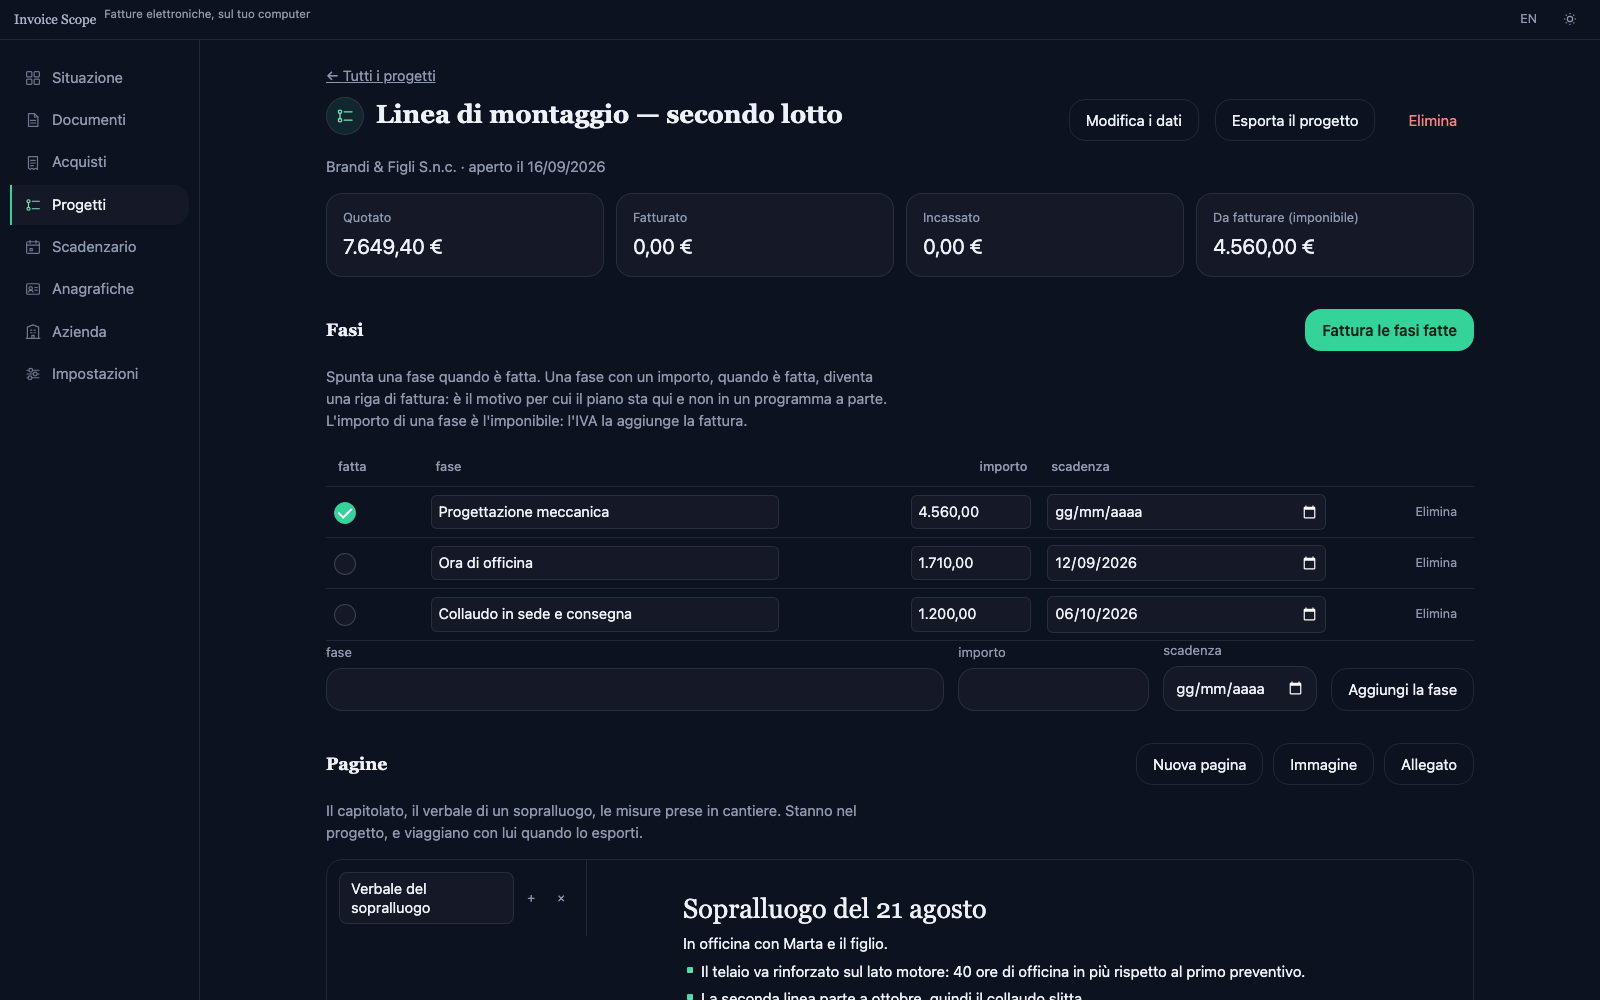
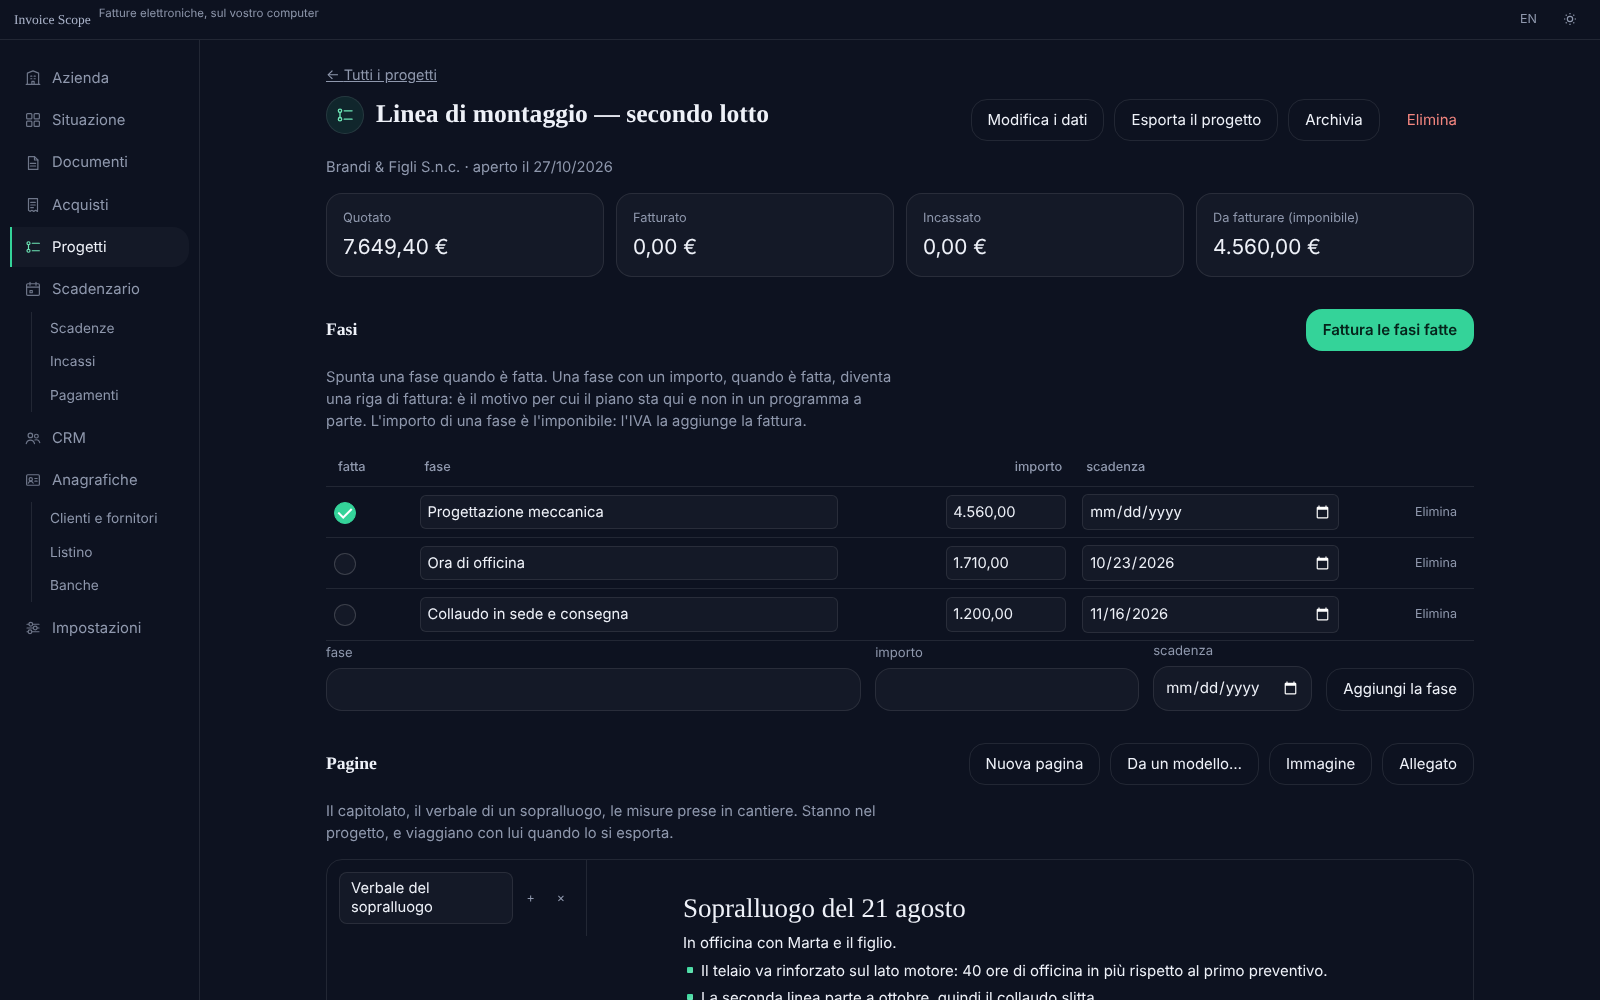
no message

diff --git a/app/invoice-scope/index.html b/app/invoice-scope/index.html
@@ -80,7 +80,7 @@
     "image": "https://ggtechnologies.sm/assets/og-app-invoice-scope-it.jpg",
     "applicationCategory": "BusinessApplication",
     "operatingSystem": "Any (web browser)",
-    "softwareVersion": "0.76.1",
+    "softwareVersion": "0.76.2",
     "datePublished": "2026-09-03",
     "dateModified": "2026-10-26",
     "license": "https://polyformproject.org/licenses/shield/1.0.0/",
@@ -201,13 +201,18 @@
           </a>
           <a class="app-gallery-item" href="/assets/shot-invoice-scope-cliente-it.png" target="_blank" rel="noopener">
             <img src="/assets/shot-invoice-scope-cliente-it.png" width="1600" height="1000" loading="lazy" decoding="async"
-                 alt="La scheda di un cliente: le persone, il diario delle telefonate, i suoi documenti.">
-            <span>La scheda di un cliente: le persone, il diario delle telefonate, i suoi documenti.</span>
+                 alt="La scheda di un cliente: le persone di riferimento, gli incontri in programma, il diario e i suoi documenti.">
+            <span>La scheda di un cliente: le persone di riferimento, gli incontri in programma, il diario e i suoi documenti.</span>
           </a>
           <a class="app-gallery-item" href="/assets/shot-invoice-scope-scadenzario-it.png" target="_blank" rel="noopener">
             <img src="/assets/shot-invoice-scope-scadenzario-it.png" width="1600" height="1000" loading="lazy" decoding="async"
                  alt="Lo scadenzario: le rate, quelle scadute, e l'incasso da registrare.">
             <span>Lo scadenzario: le rate, quelle scadute, e l'incasso da registrare.</span>
+          </a>
+          <a class="app-gallery-item" href="/assets/shot-invoice-scope-incassi-it.png" target="_blank" rel="noopener">
+            <img src="/assets/shot-invoice-scope-incassi-it.png" width="1600" height="1000" loading="lazy" decoding="async"
+                 alt="Gli incassi registrati: filtri per anno, cliente e ricevuta, e ogni incasso si corregge o riceve la sua ricevuta anche dopo.">
+            <span>Gli incassi registrati: filtri per anno, cliente e ricevuta, e ogni incasso si corregge o riceve la sua ricevuta anche dopo.</span>
           </a>
           <a class="app-gallery-item" href="/assets/shot-invoice-scope-acquisti-it.png" target="_blank" rel="noopener">
             <img src="/assets/shot-invoice-scope-acquisti-it.png" width="1600" height="1000" loading="lazy" decoding="async"
@@ -343,7 +348,7 @@
             </div>
           </div>
         </div>
-        <p class="app-meta"><span><b>Versione</b> 0.76.1</span><span><b>Aggiornata il</b> 26 ottobre 2026</span><span><b>Licenza</b> PolyForm-Shield-1.0.0</span><a href="https://github.com/G-G-Technologies-Srl/g-g-technologies-srl.github.io/tree/main/app/invoice-scope" rel="noopener">Codice sorgente</a></p>
+        <p class="app-meta"><span><b>Versione</b> 0.76.2</span><span><b>Aggiornata il</b> 26 ottobre 2026</span><span><b>Licenza</b> PolyForm-Shield-1.0.0</span><a href="https://github.com/G-G-Technologies-Srl/g-g-technologies-srl.github.io/tree/main/app/invoice-scope" rel="noopener">Codice sorgente</a></p>
       </div>
     </section>
 

diff --git a/en/app/invoice-scope/index.html b/en/app/invoice-scope/index.html
@@ -80,7 +80,7 @@
     "image": "https://ggtechnologies.sm/assets/og-app-invoice-scope-en.jpg",
     "applicationCategory": "BusinessApplication",
     "operatingSystem": "Any (web browser)",
-    "softwareVersion": "0.76.1",
+    "softwareVersion": "0.76.2",
     "datePublished": "2026-09-03",
     "dateModified": "2026-10-26",
     "license": "https://polyformproject.org/licenses/shield/1.0.0/",
@@ -201,13 +201,18 @@
           </a>
           <a class="app-gallery-item" href="/assets/shot-invoice-scope-cliente-en.png" target="_blank" rel="noopener">
             <img src="/assets/shot-invoice-scope-cliente-en.png" width="1600" height="1000" loading="lazy" decoding="async"
-                 alt="A customer record: the people, the diary of calls, their documents.">
-            <span>A customer record: the people, the diary of calls, their documents.</span>
+                 alt="A customer record: the people to talk to, the meetings coming up, the diary and their documents.">
+            <span>A customer record: the people to talk to, the meetings coming up, the diary and their documents.</span>
           </a>
           <a class="app-gallery-item" href="/assets/shot-invoice-scope-scadenzario-en.png" target="_blank" rel="noopener">
             <img src="/assets/shot-invoice-scope-scadenzario-en.png" width="1600" height="1000" loading="lazy" decoding="async"
                  alt="The payment schedule: instalments, the overdue ones, and the payment to record.">
             <span>The payment schedule: instalments, the overdue ones, and the payment to record.</span>
+          </a>
+          <a class="app-gallery-item" href="/assets/shot-invoice-scope-incassi-en.png" target="_blank" rel="noopener">
+            <img src="/assets/shot-invoice-scope-incassi-en.png" width="1600" height="1000" loading="lazy" decoding="async"
+                 alt="Payments received: filters by year, customer and receipt, and each payment can be corrected or given its receipt later.">
+            <span>Payments received: filters by year, customer and receipt, and each payment can be corrected or given its receipt later.</span>
           </a>
           <a class="app-gallery-item" href="/assets/shot-invoice-scope-acquisti-en.png" target="_blank" rel="noopener">
             <img src="/assets/shot-invoice-scope-acquisti-en.png" width="1600" height="1000" loading="lazy" decoding="async"
@@ -343,7 +348,7 @@
             </div>
           </div>
         </div>
-        <p class="app-meta"><span><b>Version</b> 0.76.1</span><span><b>Updated</b> 26 October 2026</span><span><b>Licence</b> PolyForm-Shield-1.0.0</span><a href="https://github.com/G-G-Technologies-Srl/g-g-technologies-srl.github.io/tree/main/app/invoice-scope" rel="noopener">Source code</a></p>
+        <p class="app-meta"><span><b>Version</b> 0.76.2</span><span><b>Updated</b> 26 October 2026</span><span><b>Licence</b> PolyForm-Shield-1.0.0</span><a href="https://github.com/G-G-Technologies-Srl/g-g-technologies-srl.github.io/tree/main/app/invoice-scope" rel="noopener">Source code</a></p>
       </div>
     </section>
 

diff --git a/app/invoice-scope/run/index.html b/app/invoice-scope/run/index.html
@@ -92,6 +92,9 @@
   <!-- Il testo di ogni voce sta in uno `<span>` perché `data-t` riscrive il contenuto del nodo, e
        riscriverebbe via l'icona. -->
   <nav class="navbar" id="navbar" aria-label="Invoice Scope">
+    <!-- Azienda first: it is the first thing filled in, and the one the person comes back to when a
+         detail of the company changes (requested on 27 October 2026). -->
+    <a href="#/azienda" id="navCompany"><svg aria-hidden="true"><use href="#ico-company"/></svg><span data-t="navCompany"></span></a>
     <a href="#/" id="navHome"><svg aria-hidden="true"><use href="#ico-home"/></svg><span data-t="navHome"></span></a>
     <a href="#/documenti" id="navDocs"><svg aria-hidden="true"><use href="#ico-docs"/></svg><span data-t="navDocs"></span></a>
     <a href="#/acquisti" id="navPurchases"><svg aria-hidden="true"><use href="#ico-purchases"/></svg><span data-t="navPurchases"></span></a>
@@ -114,7 +117,6 @@
       <a href="#/anagrafiche/listino" id="navPartiesItems" data-sub="1"><span data-t="navPartiesItems"></span></a>
       <a href="#/anagrafiche/banche" id="navPartiesBanks" data-sub="1"><span data-t="navPartiesBanks"></span></a>
     </div>
-    <a href="#/azienda" id="navCompany"><svg aria-hidden="true"><use href="#ico-company"/></svg><span data-t="navCompany"></span></a>
     <a href="#/impostazioni" id="navSettings"><svg aria-hidden="true"><use href="#ico-settings"/></svg><span data-t="navSettings"></span></a>
   </nav>
 

diff --git a/app/invoice-scope/run/app.js b/app/invoice-scope/run/app.js
@@ -369,6 +369,8 @@ async function _demoView(db) {
     case "documenti": return "#/documenti";
     case "scadenzario": return "#/scadenzario";
     case "acquisti": return "#/acquisti";
+    case "incassi": return "#/scadenzario/incassi";
+    case "pagamenti": return "#/scadenzario/pagamenti";
     case "anagrafiche": return "#/anagrafiche";
     case "listino": return "#/anagrafiche/listino";
     case "banche": return "#/anagrafiche/banche";

diff --git a/app/invoice-scope/run/sw.js b/app/invoice-scope/run/sw.js
@@ -12,7 +12,7 @@
 //    a running app means changing the code while somebody is halfway through an invoice, and
 //    saving them one reload is not worth that — here least of all.
 
-const VERSION = '0.76.1';
+const VERSION = '0.76.2';
 const CACHE = `invoice-scope-v${VERSION}`;
 
 // La cache dei promemoria, e **l'unica che sopravvive a un aggiornamento**. Il nome non porta la

diff --git a/app/invoice-scope/index.md b/app/invoice-scope/index.md
@@ -34,9 +34,11 @@ Invoice Scope svolge sul vostro computer la parte che richiede competenza — i 
 
 ![Un progetto: le fasi con l'importo, le pagine di appunti, i documenti collegati.](https://ggtechnologies.sm/assets/shot-invoice-scope-progetto-it.png)
 
-![La scheda di un cliente: le persone, il diario delle telefonate, i suoi documenti.](https://ggtechnologies.sm/assets/shot-invoice-scope-cliente-it.png)
+![La scheda di un cliente: le persone di riferimento, gli incontri in programma, il diario e i suoi documenti.](https://ggtechnologies.sm/assets/shot-invoice-scope-cliente-it.png)
 
 ![Lo scadenzario: le rate, quelle scadute, e l'incasso da registrare.](https://ggtechnologies.sm/assets/shot-invoice-scope-scadenzario-it.png)
+
+![Gli incassi registrati: filtri per anno, cliente e ricevuta, e ogni incasso si corregge o riceve la sua ricevuta anche dopo.](https://ggtechnologies.sm/assets/shot-invoice-scope-incassi-it.png)
 
 ![Gli acquisti: fatture ricevute e spese, con lo stato e quello che resta da pagare.](https://ggtechnologies.sm/assets/shot-invoice-scope-acquisti-it.png)
 
@@ -124,7 +126,7 @@ PolyForm Shield 1.0.0. Il codice è pubblico: si legge, si modifica e si usa anc
 
 Gratuita.
 
-**Versione** 0.76.1 · **Aggiornata il** 26 ottobre 2026 · **Licenza** PolyForm-Shield-1.0.0 · [Codice sorgente](https://github.com/G-G-Technologies-Srl/g-g-technologies-srl.github.io/tree/main/app/invoice-scope)
+**Versione** 0.76.2 · **Aggiornata il** 26 ottobre 2026 · **Licenza** PolyForm-Shield-1.0.0 · [Codice sorgente](https://github.com/G-G-Technologies-Srl/g-g-technologies-srl.github.io/tree/main/app/invoice-scope)
 
 *FAQ*
 

diff --git a/en/app/invoice-scope/index.md b/en/app/invoice-scope/index.md
@@ -34,9 +34,11 @@ Invoice Scope does the part that takes expertise — the arithmetic, the Fattura
 
 ![A project: phases with their amount, note pages, linked documents.](https://ggtechnologies.sm/assets/shot-invoice-scope-progetto-en.png)
 
-![A customer record: the people, the diary of calls, their documents.](https://ggtechnologies.sm/assets/shot-invoice-scope-cliente-en.png)
+![A customer record: the people to talk to, the meetings coming up, the diary and their documents.](https://ggtechnologies.sm/assets/shot-invoice-scope-cliente-en.png)
 
 ![The payment schedule: instalments, the overdue ones, and the payment to record.](https://ggtechnologies.sm/assets/shot-invoice-scope-scadenzario-en.png)
+
+![Payments received: filters by year, customer and receipt, and each payment can be corrected or given its receipt later.](https://ggtechnologies.sm/assets/shot-invoice-scope-incassi-en.png)
 
 ![Purchases: received invoices and expenses, with their state and what is left to pay.](https://ggtechnologies.sm/assets/shot-invoice-scope-acquisti-en.png)
 
@@ -124,7 +126,7 @@ PolyForm Shield 1.0.0. The code is public: it can be read, changed and used, com
 
 Free.
 
-**Version** 0.76.1 · **Updated** 26 October 2026 · **Licence** PolyForm-Shield-1.0.0 · [Source code](https://github.com/G-G-Technologies-Srl/g-g-technologies-srl.github.io/tree/main/app/invoice-scope)
+**Version** 0.76.2 · **Updated** 26 October 2026 · **Licence** PolyForm-Shield-1.0.0 · [Source code](https://github.com/G-G-Technologies-Srl/g-g-technologies-srl.github.io/tree/main/app/invoice-scope)
 
 *FAQ*
 
